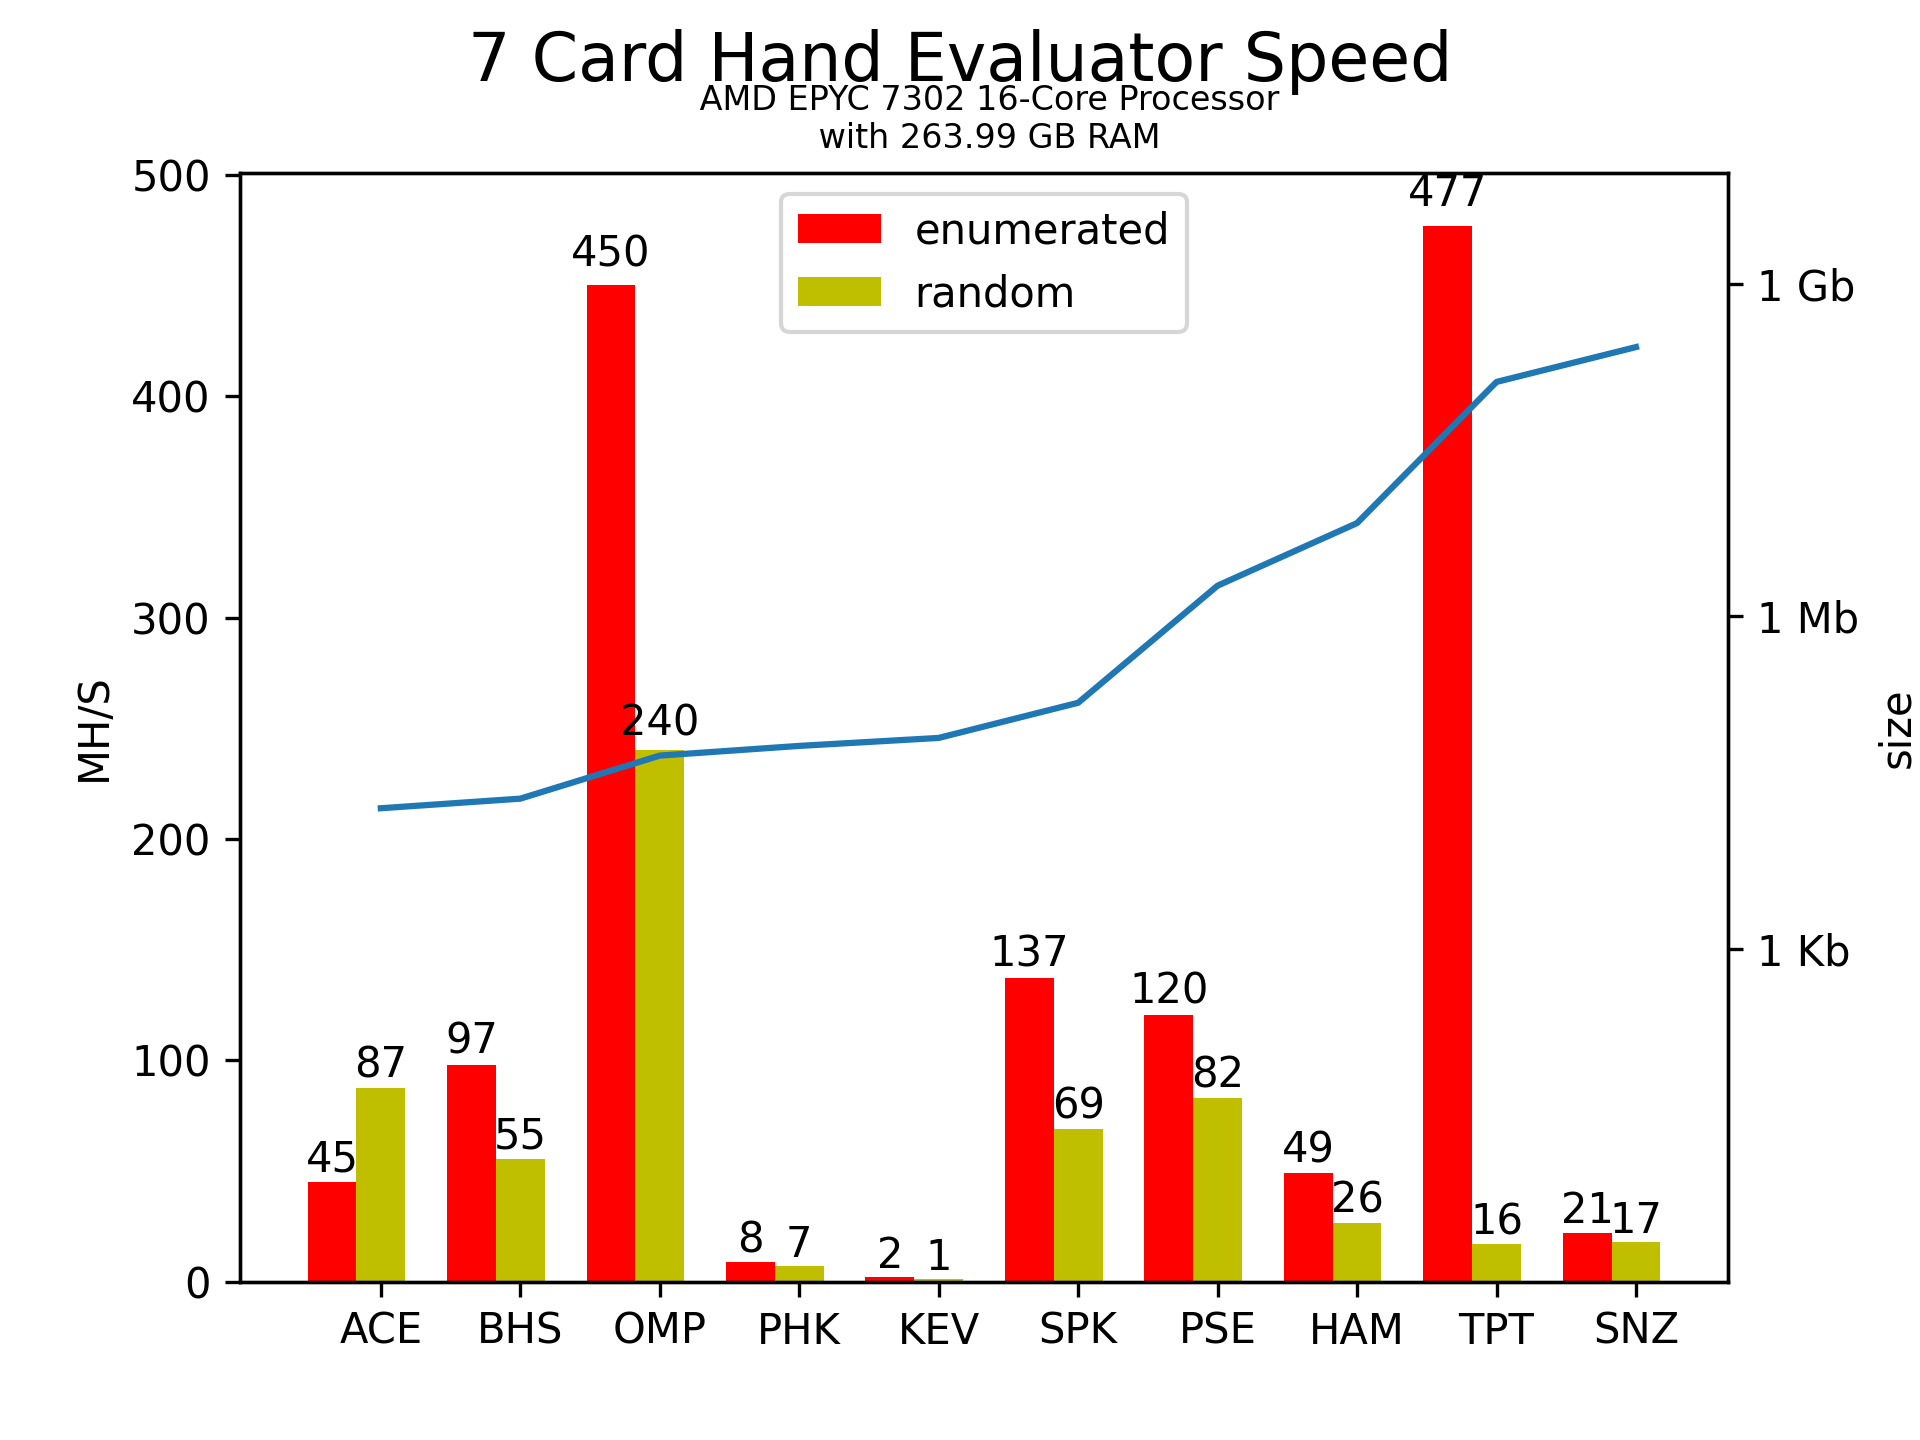
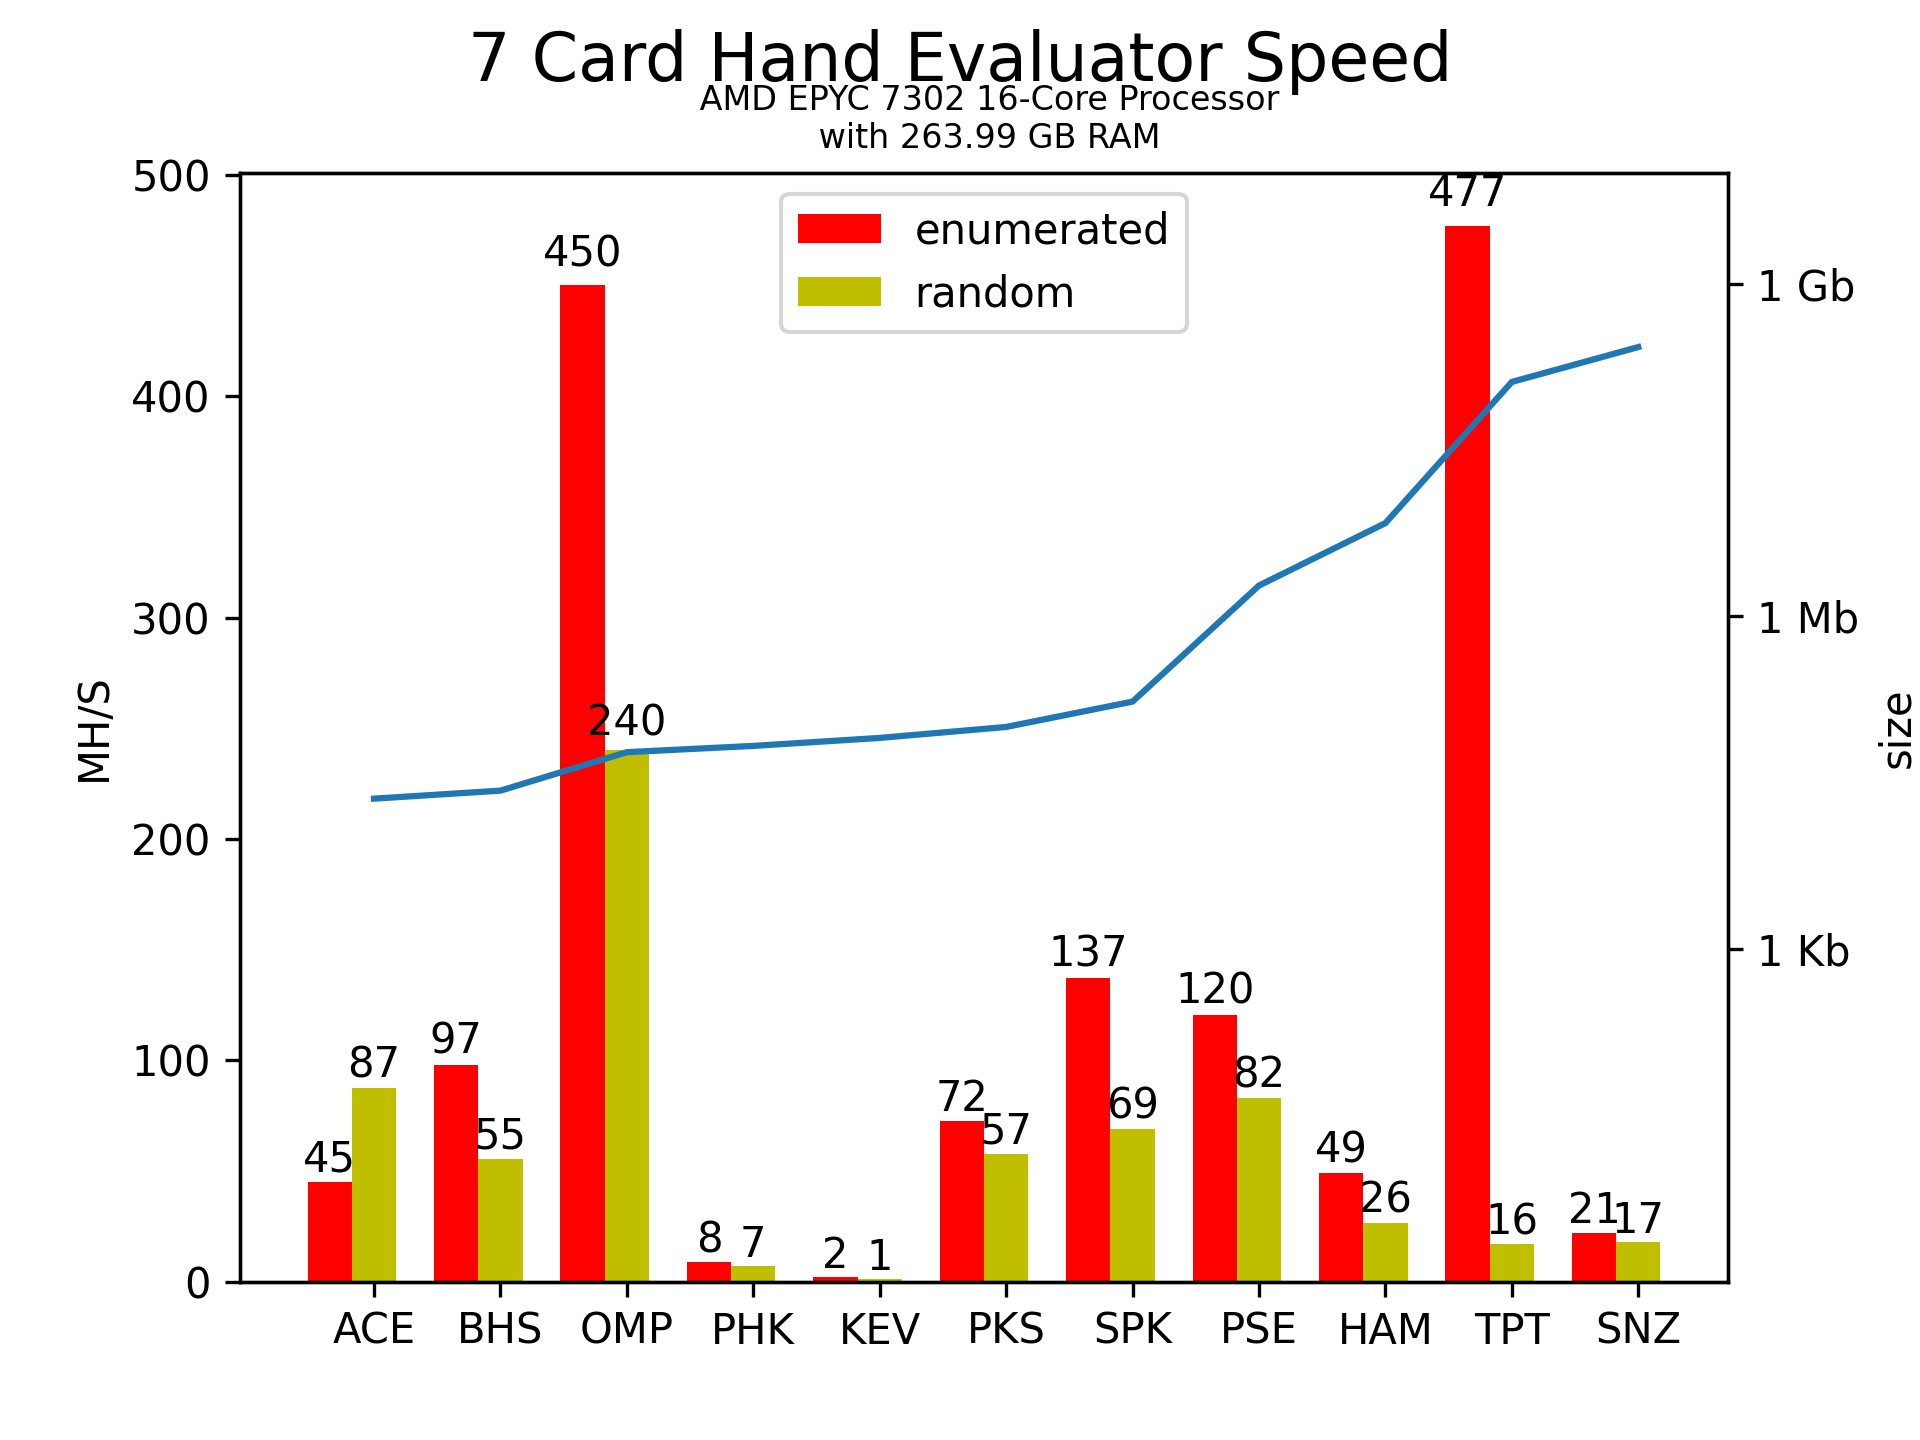
add pokerstove result

diff --git a/pokerstove/PKS_benchmark.cpp b/pokerstove/PKS_benchmark.cpp
@@ -1,0 +1,68 @@
+#include <memory>
+#include <stdint.h>
+
+#include "../benchmark.h"
+#include "source/src/lib/pokerstove/peval/Card.h"
+#include "source/src/lib/pokerstove/peval/CardSet.h"
+#include "source/src/lib/pokerstove/peval/HoldemHandEvaluator.h"
+
+class PKSBenchmark : public BaseBenchmark<uint8_t, int> {
+public:
+  PKSBenchmark(const std::string &name) : BaseBenchmark(name) {}
+
+  int init() {
+    evaluator_ = std::make_unique<pokerstove::HoldemHandEvaluator>();
+    return 0;
+  }
+
+  Card makecard(int i) { return i; }
+
+  void addcard(Card *h, Card c) { h[h[7]++] = c; }
+
+  EquivClass evaluate(Card *h) {
+    pokerstove::CardSet hand, board;
+    for (int i = 0; i < 7; ++i) {
+      if (i < 2) {
+        hand.insert(pokerstove::Card(h[i]));
+      } else {
+        board.insert(pokerstove::Card(h[i]));
+      }
+    }
+    return evaluator_->eval(hand, board).type();
+  }
+
+  int rank(EquivClass e) {
+    switch (e) {
+    case 0:
+      return 1; // high card
+    case 1:
+      return 2; // one pair
+    case 4:
+      return 3; // two pairs
+    case 5:
+      return 4; // three of a kind
+    case 7:
+      return 5; // straight
+    case 8:
+      return 6; // flush
+    case 9:
+      return 7; // full house
+    case 10:
+      return 8; // four of a kind
+    case 11:
+      return 9; // straight flush
+    default:
+      return 0; // invalid
+    }
+  }
+
+private:
+  std::unique_ptr<pokerstove::HoldemHandEvaluator> evaluator_;
+};
+
+int main() {
+  PKSBenchmark benchmark("PKS");
+  benchmark.init();
+  benchmark.run();
+  return 0;
+}

diff --git a/README.md b/README.md
@@ -50,9 +50,6 @@ Some of the links for source code downloads are currently inaccessible. Therefor
 - HAM: [Moritz Hammer](hammer/README.md)
 - BHS: [Steve Brecher's Holdem Showdown](showdown/README.md)
 - OPM: [OPMEval](https://github.com/zekyll/OMPEval)
-
-
-## Coming In The Future
 - PKS: [PokerStove](https://github.com/andrewprock/pokerstove)
 
 
